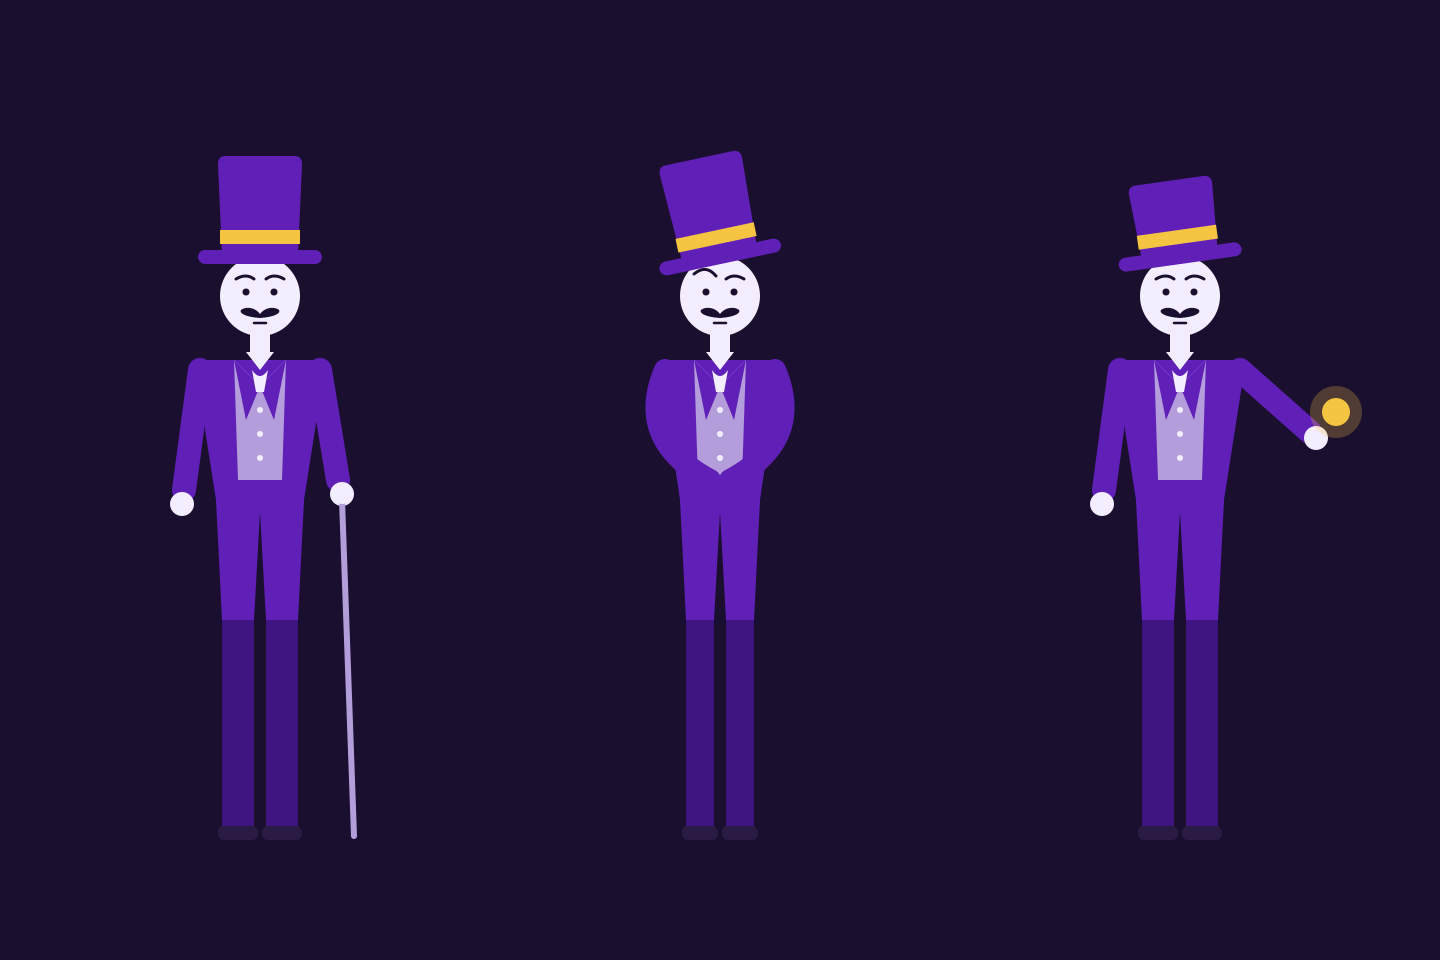
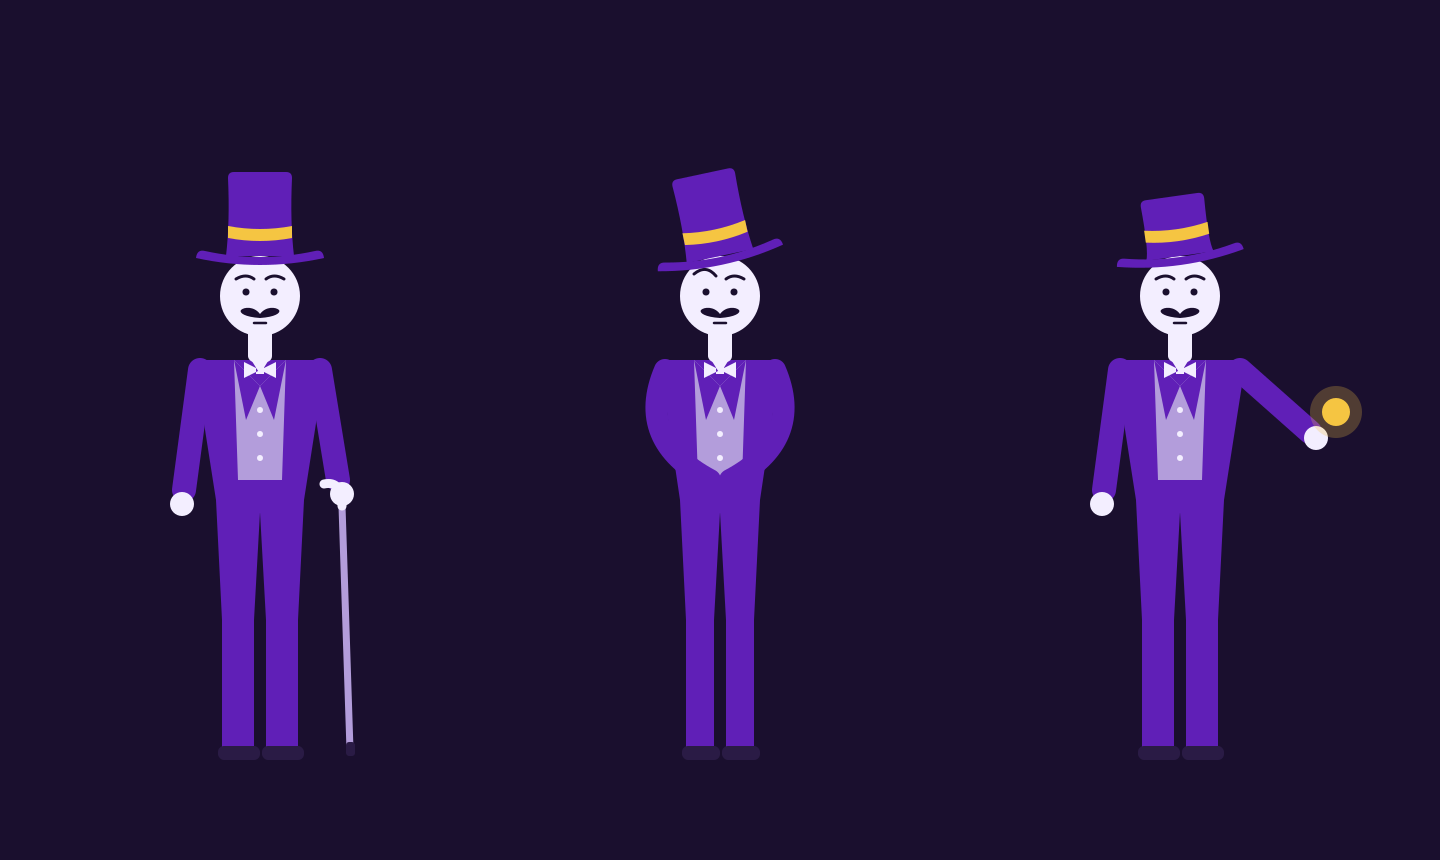
Dandy Man: true top hat shape, bow tie, matching trousers, shorter legs, hooked cane
Claude-Session: https://claude.ai/code/session_01MsLwUh4sHtdYL5twesgV4U

Changed region(s): [[0.0938, 0.1512, 0.25, 0.8767], [0.75, 0.1814, 0.9688, 0.8767], [0.4375, 0.1512, 0.5625, 0.8767]]

diff --git a/cast/dandy-man/gen_candidates.py b/cast/dandy-man/gen_candidates.py
@@ -26,15 +26,16 @@ SHADE = "#3E1480"  # darker than primary for trousers/shoes; 60% of the figure s
 
 
 def hat(tilt_deg, tall=True):
-    # Crown sits on the head (y=196). "tall" is a modest top hat; the small one is a bowler-ish stub.
-    top = 96 if tall else 120
-    crown = f"M162 196 L158 {top + 8} Q158 {top} 166 {top} L234 {top} Q242 {top} 242 {top + 8} L238 196 Z"
-    band_y = 170
+    # Top hat: slightly concave sides, flared top, brim that curls up at the ends. Sits on y=196.
+    top = 112 if tall else 136
+    crown = (f"M166 196 Q170 {top + 50} 168 {top + 6} Q168 {top} 174 {top} "
+             f"L226 {top} Q232 {top} 232 {top + 6} Q230 {top + 50} 234 196 Z")
+    brim = "M136 198 Q137 189 145 191 Q200 203 255 191 Q263 189 264 198 Q200 212 136 198 Z"
     return f"""
   <g transform="rotate({tilt_deg} 200 196)">
     <path d="{crown}" fill="{PRIMARY}"/>
-    <rect x="160" y="{band_y}" width="80" height="14" fill="{GOLD}"/>
-    <rect x="138" y="190" width="124" height="14" rx="7" fill="{PRIMARY}"/>
+    <path d="M168 178 Q200 184 232 178 L232 166 Q200 172 168 166 Z" fill="{GOLD}"/>
+    <path d="{brim}" fill="{PRIMARY}"/>
   </g>"""
 
 
@@ -50,7 +51,7 @@ def head(brow="flat"):
   <path d="M206 219 Q214 213 224 219" stroke="{BG}" stroke-width="3" fill="none" stroke-linecap="round"/>
   <path d="M200 254 C194 246 184 247 181 250 C179 253 185 257 200 258 C215 257 221 253 219 250 C216 247 206 246 200 254 Z" fill="{BG}"/>
   <line x1="194" y1="263" x2="206" y2="263" stroke="{BG}" stroke-width="2.5" stroke-linecap="round"/>
-  <rect x="190" y="272" width="20" height="20" fill="{TEXT}"/>"""
+  <rect x="188" y="268" width="24" height="34" rx="6" fill="{TEXT}"/>"""
 
 
 def body(arms="cane", slim=1.0):
@@ -66,16 +67,16 @@ def body(arms="cane", slim=1.0):
     lapels = (
         f"M{200 - 26} 300 L{200 - 14} 360 L200 326 Z M{200 + 26} 300 L{200 + 14} 360 L200 326 Z"
     )
-    collar = f"M186 292 L200 310 L214 292 Z"
-    cravat = f"M192 310 Q200 322 208 310 L204 332 L196 332 Z"
+    collar = f"M190 298 L200 314 L210 298 L210 294 L190 294 Z"
+    cravat = f"M200 310 L184 302 L184 318 Z M200 310 L216 302 L216 318 Z M196 306 L204 306 L204 314 L196 314 Z"
     buttons = "".join(
         f'<circle cx="200" cy="{y}" r="3" fill="{TEXT}"/>' for y in (350, 374, 398)
     )
     legs = (
-        f'<rect x="{200 - ww + 6}" y="430" width="{ww - 12}" height="340" fill="{SHADE}"/>'
-        f'<rect x="{200 + 6}" y="430" width="{ww - 12}" height="340" fill="{SHADE}"/>'
-        f'<rect x="{200 - ww + 2}" y="766" width="{ww - 4}" height="14" rx="6" fill="{LIFT}"/>'
-        f'<rect x="{200 + 2}" y="766" width="{ww - 4}" height="14" rx="6" fill="{LIFT}"/>'
+        f'<rect x="{200 - ww + 6}" y="430" width="{ww - 12}" height="262" fill="{PRIMARY}"/>'
+        f'<rect x="{200 + 6}" y="430" width="{ww - 12}" height="262" fill="{PRIMARY}"/>'
+        f'<rect x="{200 - ww + 2}" y="686" width="{ww - 2}" height="14" rx="6" fill="{LIFT}"/>'
+        f'<rect x="{200 + 2}" y="686" width="{ww - 2}" height="14" rx="6" fill="{LIFT}"/>'
     )
     if arms == "cane":
         arms_svg = f"""
@@ -83,8 +84,9 @@ def body(arms="cane", slim=1.0):
   <circle cx="{200 - sw - 18}" cy="444" r="12" fill="{TEXT}"/>
   <path d="M{200 + sw} 310 L{200 + sw + 18} 420" stroke="{PRIMARY}" stroke-width="24" stroke-linecap="round" fill="none"/>
   <circle cx="{200 + sw + 22}" cy="434" r="12" fill="{TEXT}"/>
-  <line x1="{200 + sw + 22}" y1="440" x2="{200 + sw + 34}" y2="776" stroke="{SOFT}" stroke-width="6" stroke-linecap="round"/>
-  <circle cx="{200 + sw + 22}" cy="436" r="8" fill="{TEXT}"/>"""
+  <path d="M{200 + sw + 22} 446 L{200 + sw + 30} 690" stroke="{SOFT}" stroke-width="7" stroke-linecap="round" fill="none"/>
+  <path d="M{200 + sw + 22} 446 Q{200 + sw + 22} 420 {200 + sw + 4} 424" stroke="{TEXT}" stroke-width="9" stroke-linecap="round" fill="none"/>
+  <rect x="{200 + sw + 26}" y="682" width="9" height="14" rx="3" fill="{LIFT}"/>"""
     elif arms == "behind":
         arms_svg = f"""
   <path d="M{200 - sw} 310 Q{200 - sw - 30} 380 {200 - 10} 420" stroke="{PRIMARY}" stroke-width="22" stroke-linecap="round" fill="none"/>
@@ -110,7 +112,7 @@ def body(arms="cane", slim=1.0):
 
 def figure(hat_tilt, arms, slim, brow, tall):
     # Body first, then head and hat so the hat sits on top.
-    return f"""<svg xmlns="http://www.w3.org/2000/svg" viewBox="0 0 400 800" width="400" height="800">
+    return f"""<svg xmlns="http://www.w3.org/2000/svg" viewBox="0 0 400 700" width="400" height="700">
   {body(arms=arms, slim=slim)}
   {head(brow=brow)}
   {hat(hat_tilt, tall=tall)}
@@ -137,11 +139,11 @@ def main():
         with open(path, "w") as f:
             f.write(svg)
         png = os.path.join(OUT, f"{key}.png")
-        cairosvg.svg2png(bytestring=svg.encode(), write_to=png, output_width=400, output_height=800)
+        cairosvg.svg2png(bytestring=svg.encode(), write_to=png, output_width=400, output_height=700)
         previews.append((label, png))
 
     # Contact sheet on the brand background.
-    W, H = 400, 800
+    W, H = 400, 700
     pad = 60
     sheet = Image.new("RGB", (len(previews) * (W + pad) + pad, H + pad * 2 + 40), BG)
     for i, (label, png) in enumerate(previews):
